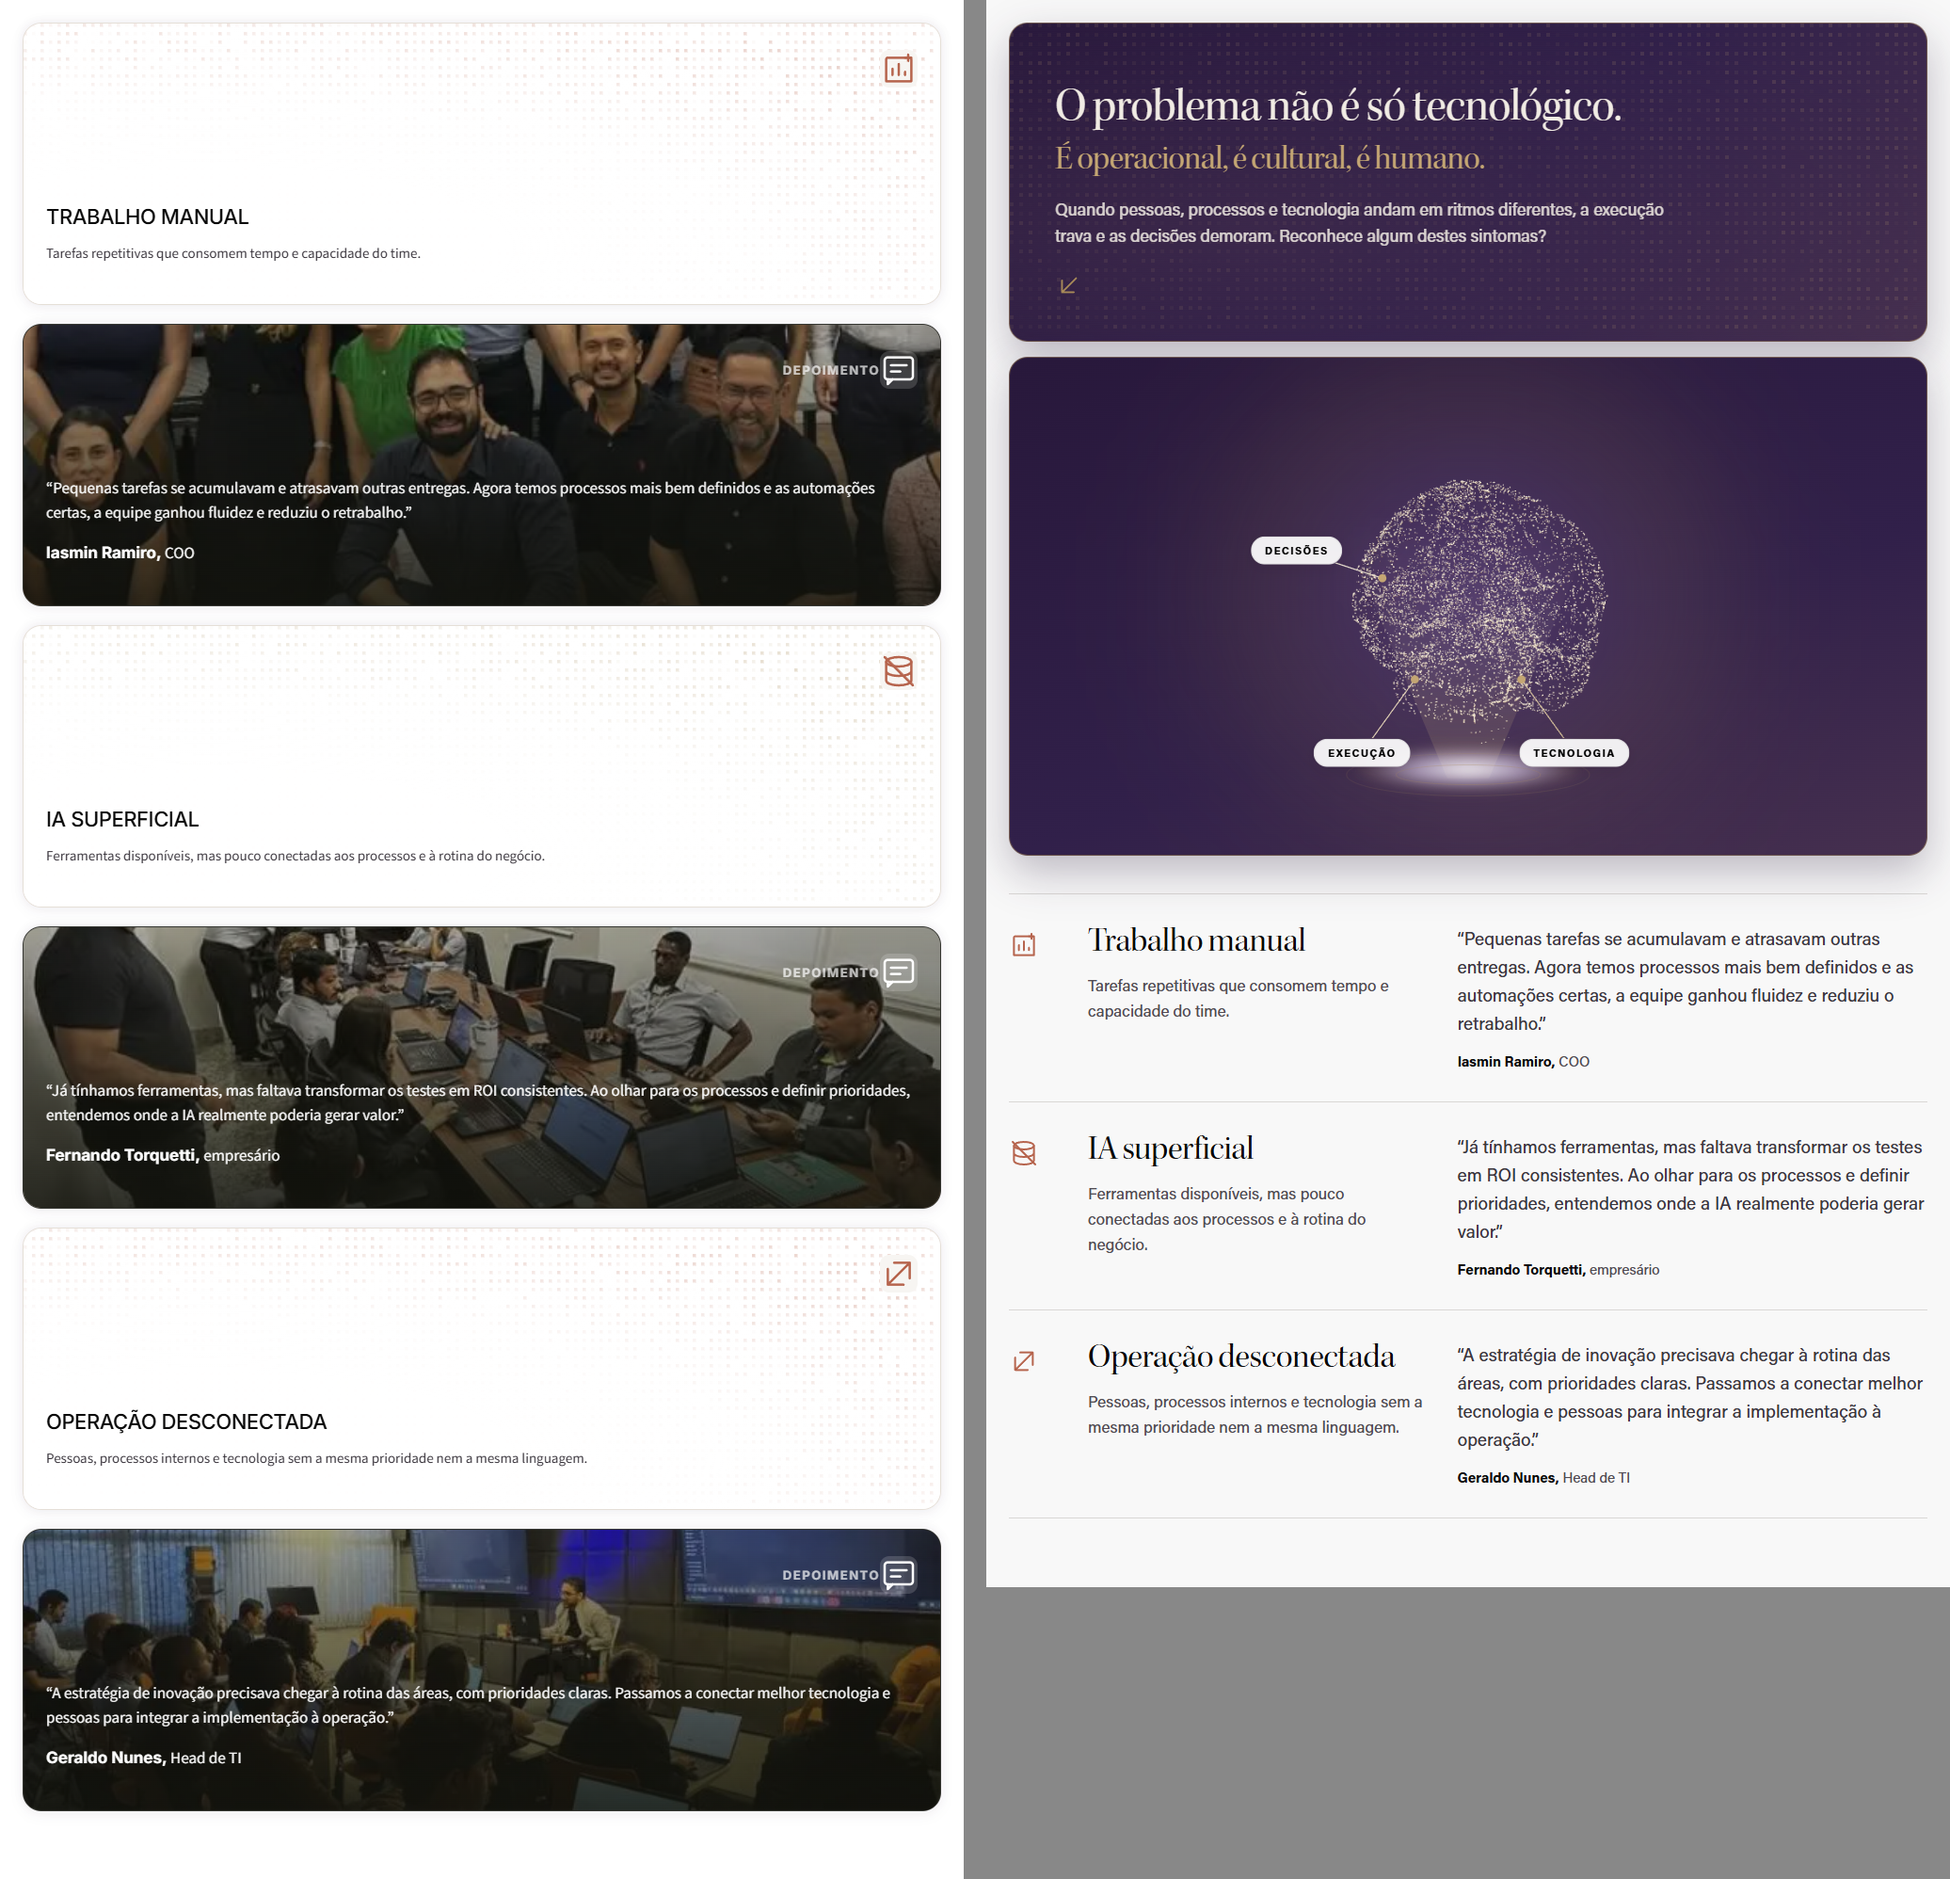
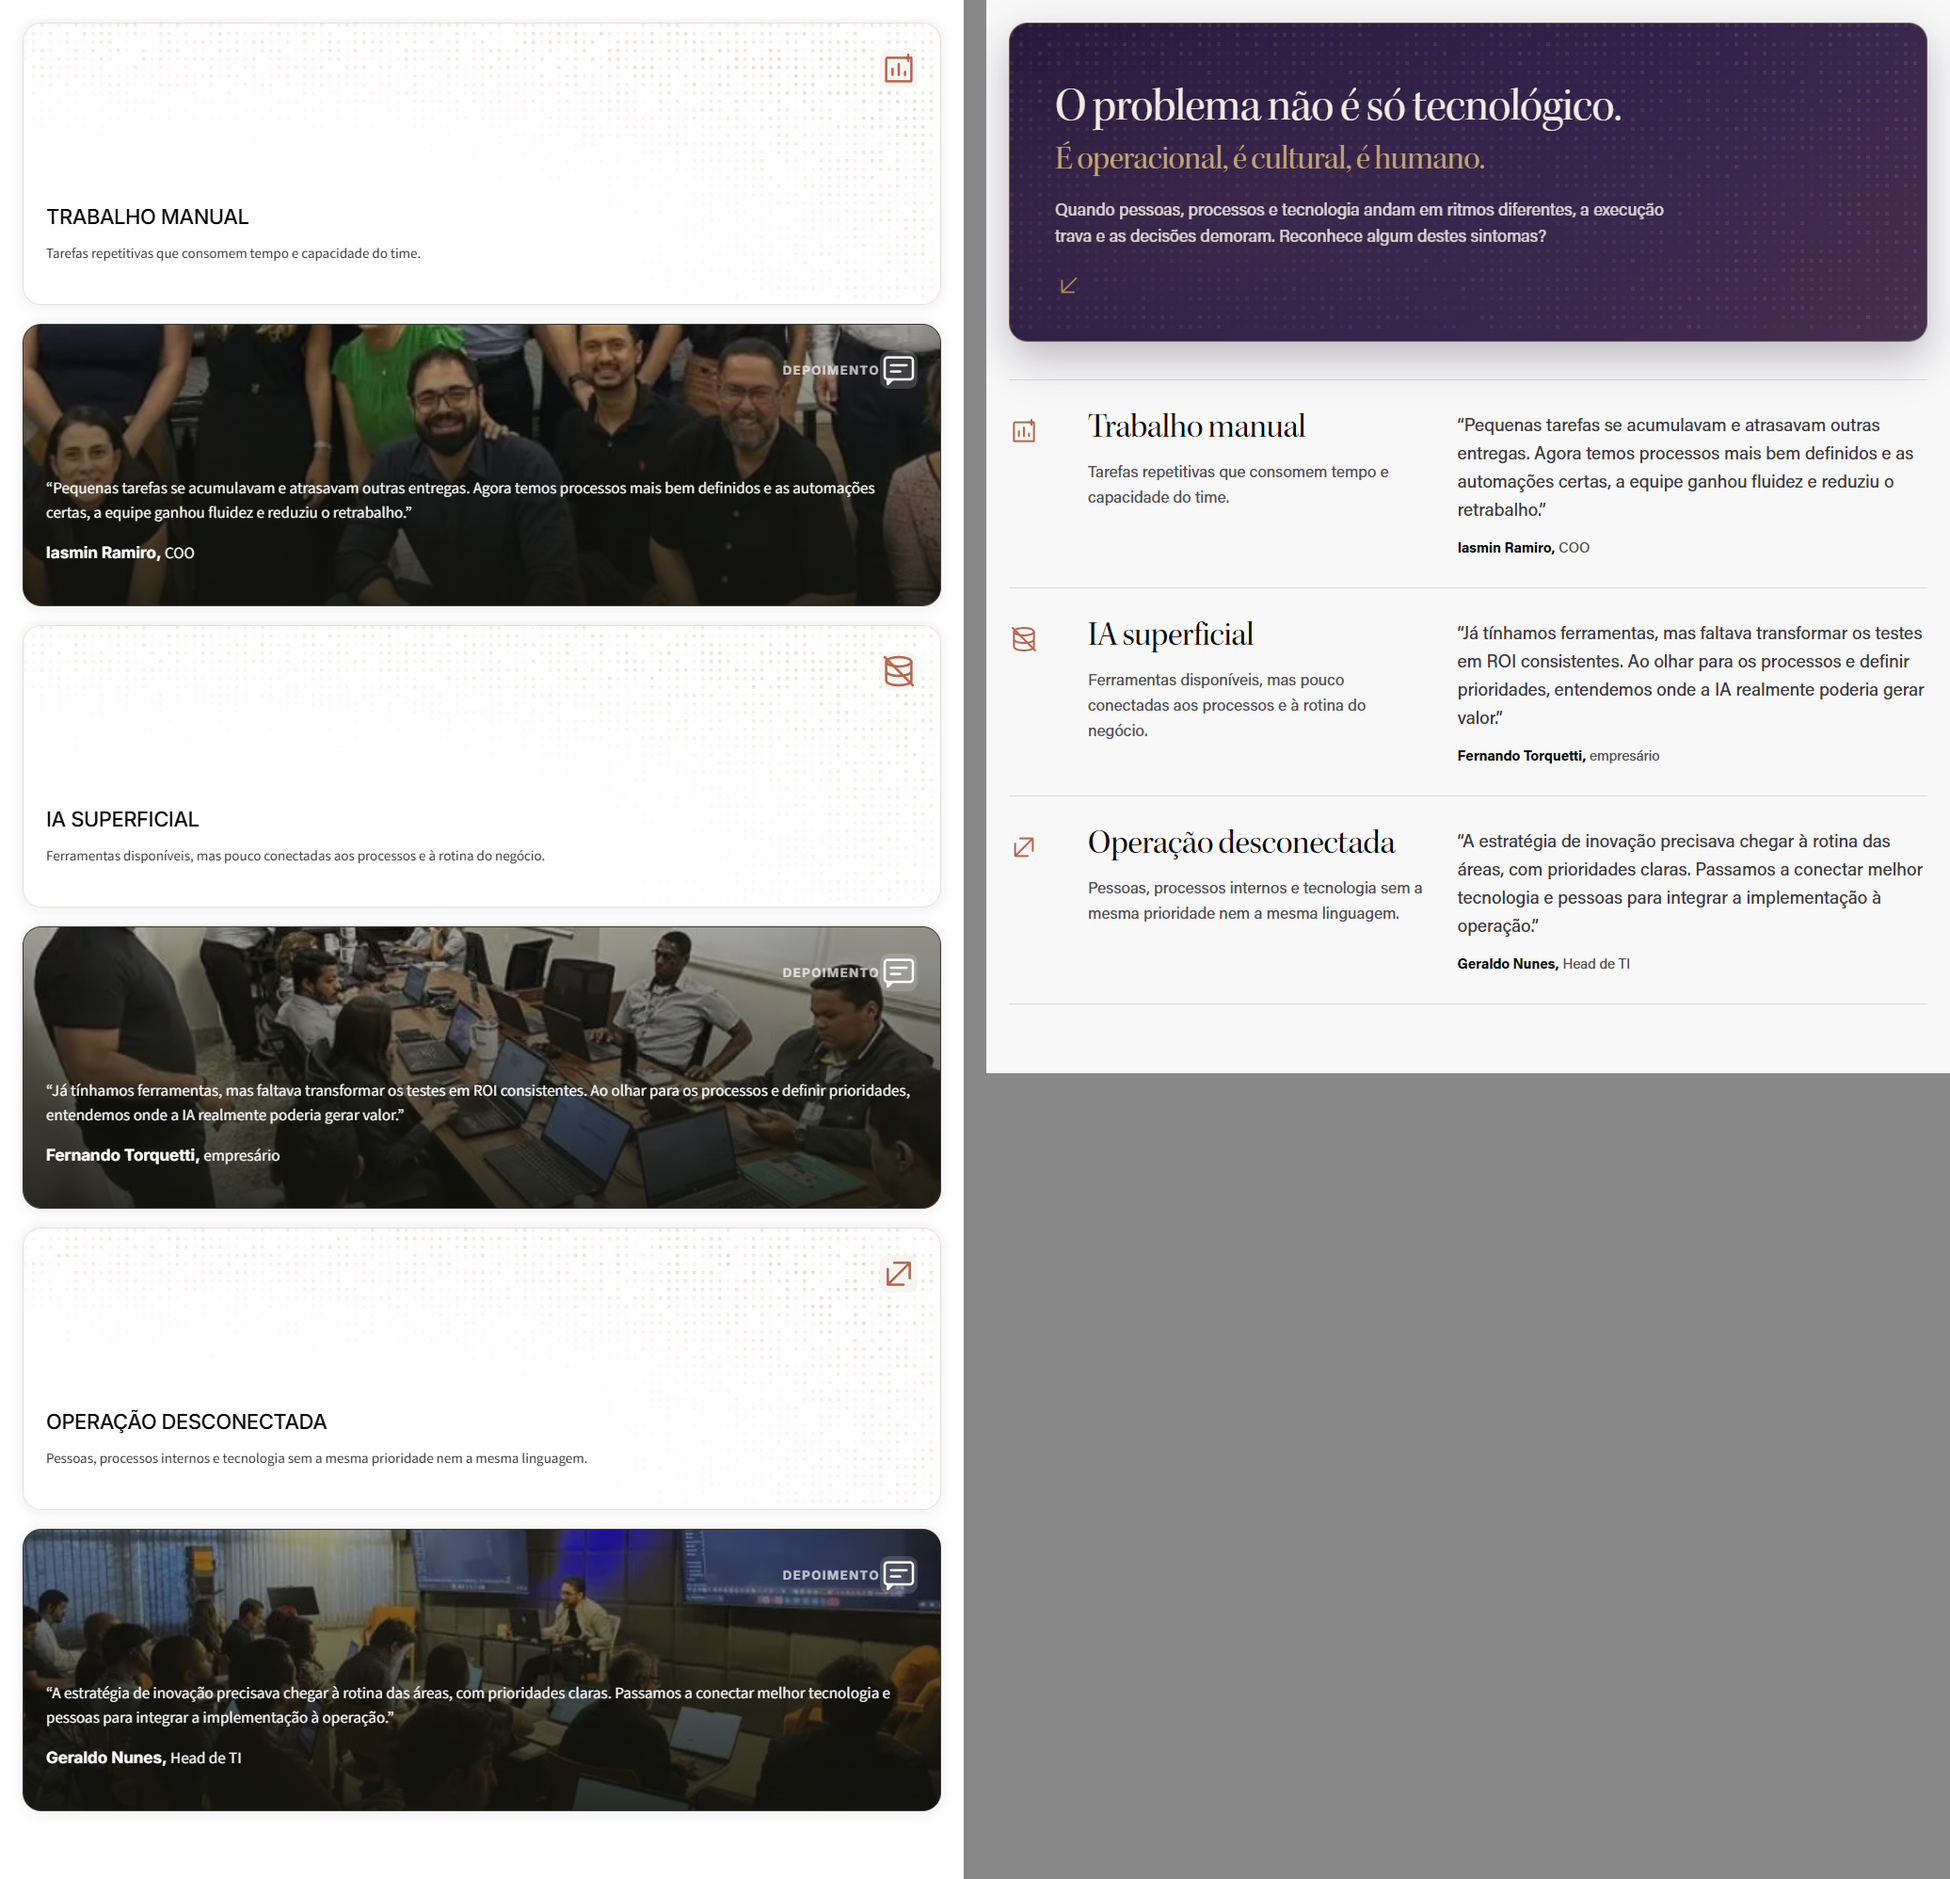
docs(home): acompanhamento e capturas sem o holograma no celular

Changed region(s): [[0.4942, 0.1864, 1.0, 0.8697]]

diff --git a/docs/po/home-0211/ACOMPANHAMENTO.md b/docs/po/home-0211/ACOMPANHAMENTO.md
@@ -9,12 +9,12 @@ Veja em `http://localhost:3307` (build de produção). Branch `claude/home-0211-
 - **O que fazemos:** xadrez de três fotos grandes encostadas no texto, sem cartão.
 - **Experiência, case e depoimentos:** como em 02/11, com a galeria, os retratos grandes e o selo do prêmio.
 - **O Problema:** bloco roxo e holograma atuais, e três sintomas abertos, cada um com seu depoimento.
-- **Celular e tablet:** título, texto, holograma e sintomas aparecem. Holograma conferido por imagem em 360, 390 e 768.
+- **Celular e tablet:** título, texto e sintomas aparecem. O holograma fica só no computador (a partir de 1101 px), por decisão do dono, depois do brief.
 - **Mantidos:** 28 logos em cor, loop de 75 s e copy atual (`content.ts` não mudou).
 
 ## Antes e depois
 
-Em `img/`, sempre 3306 à esquerda e 3307 à direita: `<largura>-<seção>.png`, em 1440, 1024, 768 e 390. Primeira tela: `1366x768-primeira-tela-antes.png` e `-depois.png`. Holograma: `holo-360.png`, `holo-390.png`, `holo-768.png`. Quadros de animação: `<largura>-quadro-*.png`.
+Em `img/`, sempre 3306 à esquerda e 3307 à direita: `<largura>-<seção>.png`, em 1440, 1024, 768 e 390. Primeira tela: `1366x768-primeira-tela-antes.png` e `-depois.png`. Quadros de animação: `<largura>-quadro-*.png`.
 
 ## Medições
 
@@ -23,16 +23,15 @@ Em `img/`, sempre 3306 à esquerda e 3307 à direita: `<largura>-<seção>.png`,
 | LCP computador / celular | 668 / 456 ms | 576 / 376 ms |
 | CLS computador / celular, com rolagem | 0,0014 / 0,0012 | 0,0017 / 0,0017 |
 | TBT computador / celular, sem rolar | 330 / 345 ms | 294 / 290 ms |
-| TBT celular, rolando até o fim (outra rodada) | 238 ms | 629 ms |
+| Celular, rodada final sem holograma: LCP / TBT rolando até o fim | 480 / 247 ms | 340 / 240 ms |
 
-Mediana de 3, com CPU 4x mais lenta e sem rede simulada; não é Lighthouse. **Os números de carregamento variam entre rodadas:** no celular, sem rolar, a segunda rodada deu 238 ms na 3300 e 332 ms na 3307.
-
-**Custo do holograma:** o aumento do TBT ao rolar no celular vem, muito provavelmente, de ele agora carregar lá. Antes ele não existia nessa largura. Isso acontece ao chegar na seção, não na abertura da página.
+Mediana de 3, com CPU 4x mais lenta e sem rede simulada; não é Lighthouse. **Os números de carregamento variam entre rodadas:** o LCP da 3300 no celular foi de 388 a 480 ms. As três primeiras linhas são da versão com holograma no celular; só a última foi medida depois de tirá-lo.
 
 - **Rolagem horizontal:** nenhuma em 1440, 1024, 768 e 390.
 - **Console:** sem erros. Só avisos de pré-carregamento de CSS do Next em produção.
 - **`tsc` e build:** passam.
 - **Lint:** 2 erros, em `DiagnosticoClient` e `AdvisoryMotion`, arquivos que esta entrega não mexeu.
+- **Depois de tirar o holograma do celular:** `tsc` e build refeitos; O Problema recapturado nas 4 larguras, sem rolagem horizontal nem erro de console. As demais capturas são do build anterior; essa mudança só afeta o holograma e a ordem de O Problema abaixo de 1101 px.
 - **Outras páginas:** Advisory e Sobre nós têm 0,000% de pixels diferentes da 3300, em 1440 e 390, com movimento reduzido.
 
 ## Animações que saíram
